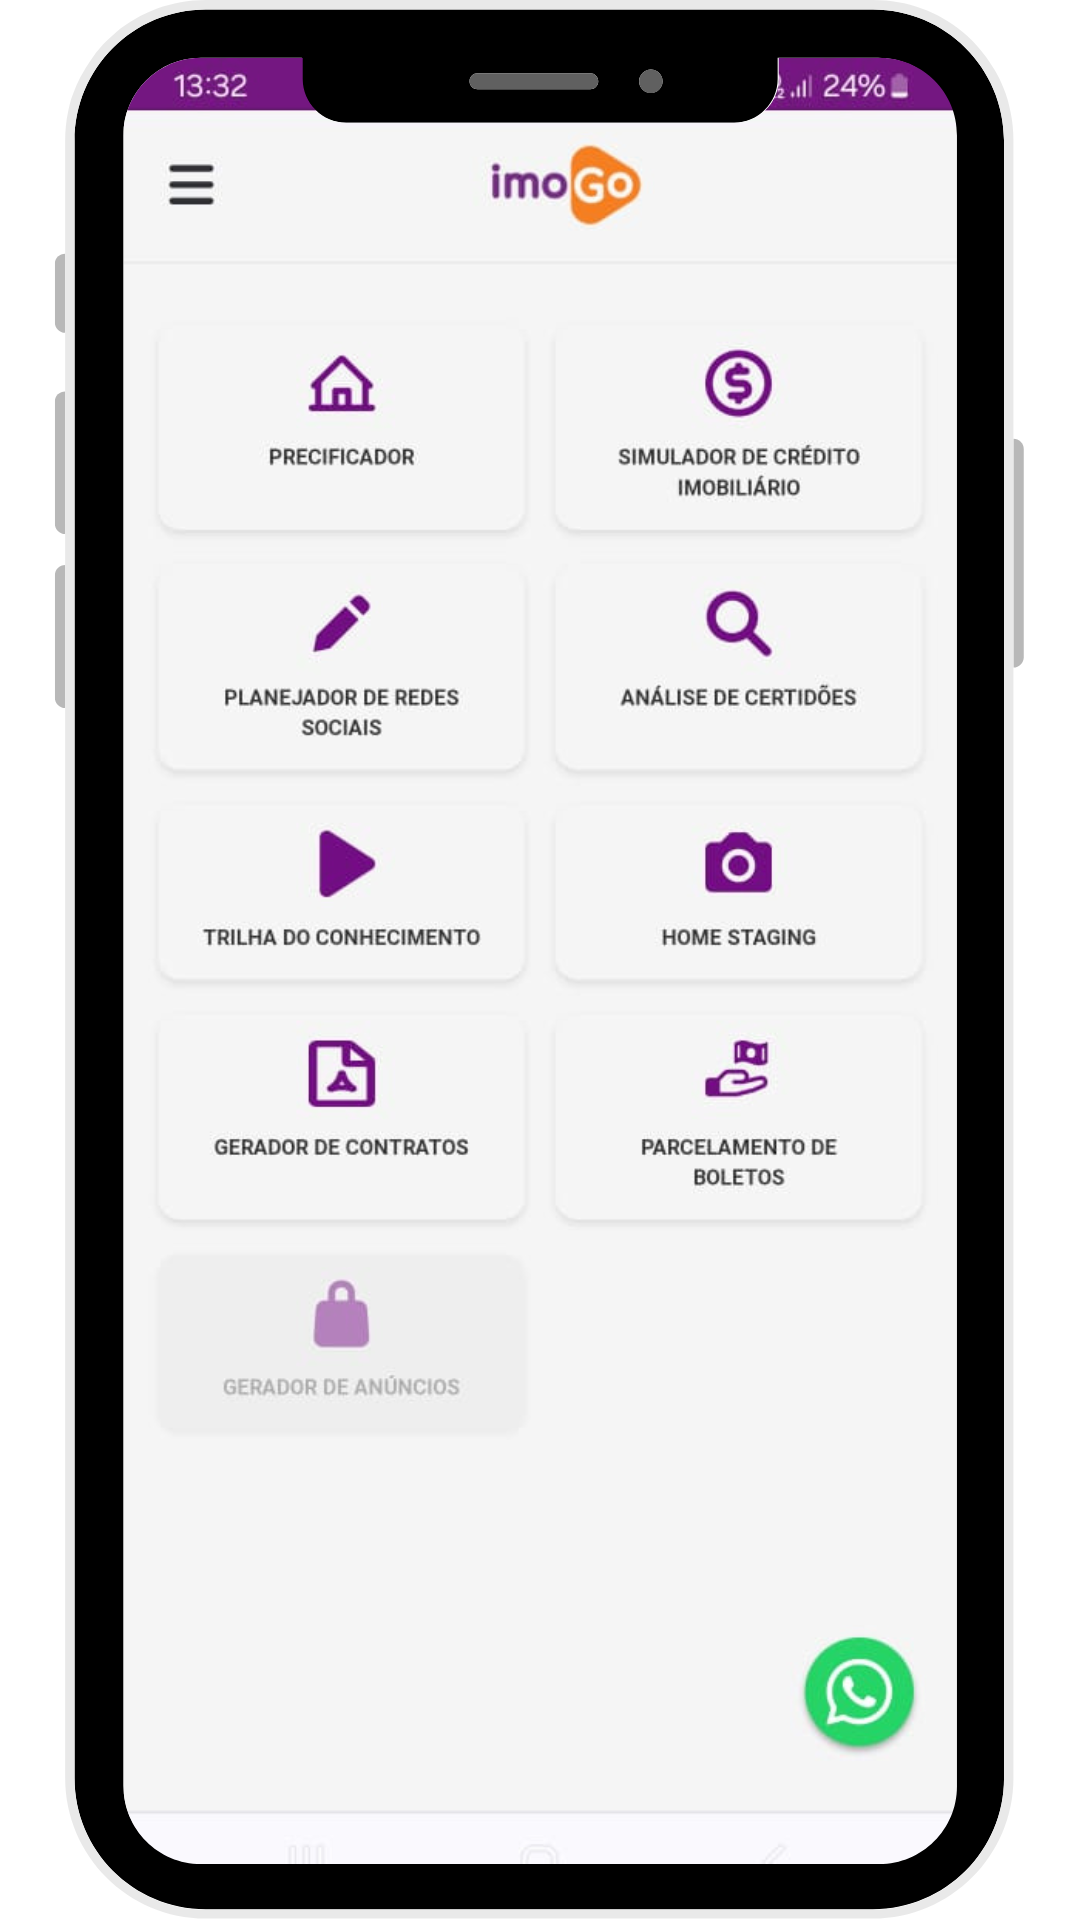
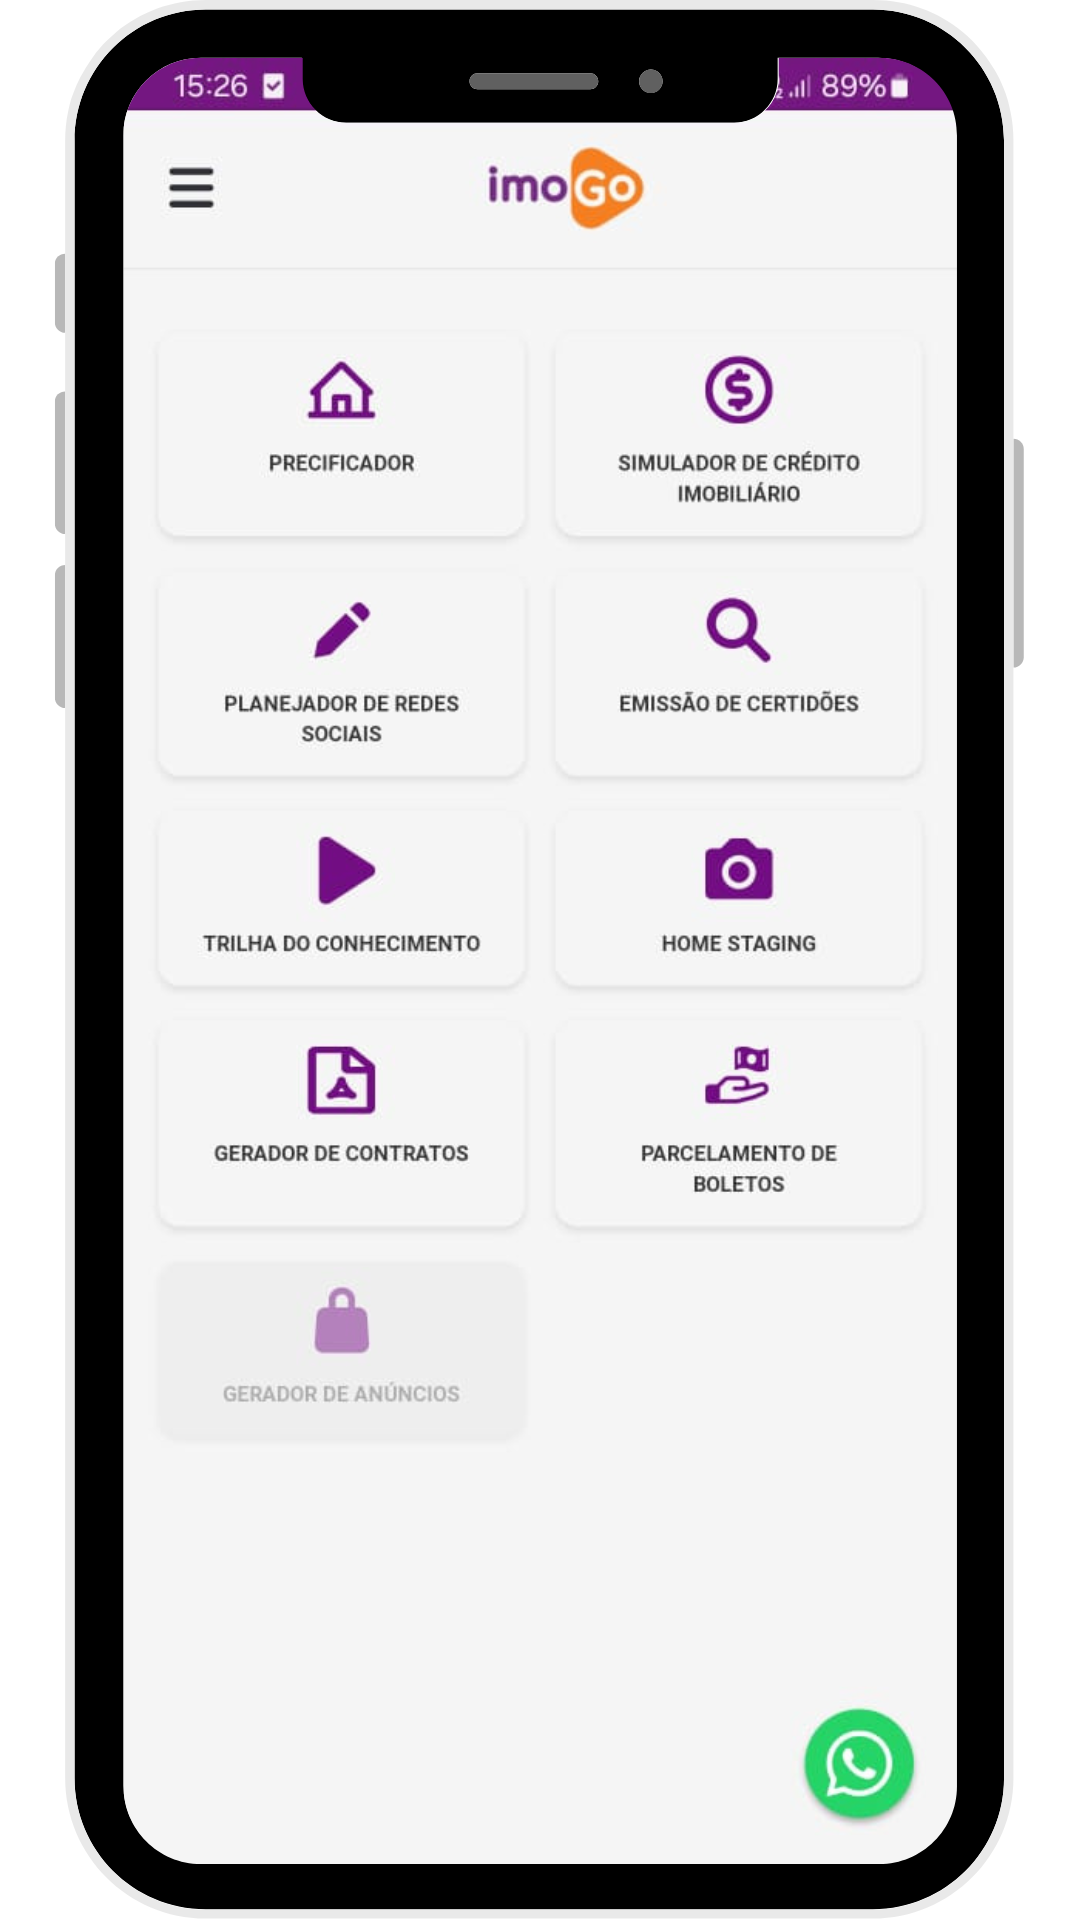
[06/06] Atualização telas

diff --git a/index.html b/index.html
@@ -1,15 +1,15 @@
 <!doctype html>
 <html class="no-js" lang="pt-br">
 
-<head>	
+<head>
 	<!-- Google tag (gtag.js) -->
 	<script async src="https://www.googletagmanager.com/gtag/js?id=G-C4LVRMEL35"></script>
 	<script>
-	  window.dataLayer = window.dataLayer || [];
-	  function gtag(){dataLayer.push(arguments);}
-	  gtag('js', new Date());
-	
-	  gtag('config', 'G-C4LVRMEL35');
+		window.dataLayer = window.dataLayer || [];
+		function gtag() { dataLayer.push(arguments); }
+		gtag('js', new Date());
+
+		gtag('config', 'G-C4LVRMEL35');
 	</script>
 	<meta charset="UTF-8">
 	<meta http-equiv="X-UA-Compatible" content="IE=edge">
@@ -43,13 +43,16 @@
 
 	<script src="https://unpkg.com/@phosphor-icons/web@2.1.1"></script>
 
-	 <!-- Google Tag Manager-->
-	 <script>(function(w,d,s,l,i){w[l]=w[l]||[];w[l].push({'gtm.start':
-	 new Date().getTime(),event:'gtm.js'});var f=d.getElementsByTagName(s)[0],
-	 j=d.createElement(s),dl=l!='dataLayer'?'&l='+l:'';j.async=true;j.src=
-	 'https://www.googletagmanager.com/gtm.js?id='+i+dl;f.parentNode.insertBefore(j,f);
-	 })(window,document,'script','dataLayer','GTM-MFM62R63');</script>
-	 <!-- End Google Tag Manager-->
+	<!-- Google Tag Manager-->
+	<script>(function (w, d, s, l, i) {
+			w[l] = w[l] || []; w[l].push({
+				'gtm.start':
+					new Date().getTime(), event: 'gtm.js'
+			}); var f = d.getElementsByTagName(s)[0],
+				j = d.createElement(s), dl = l != 'dataLayer' ? '&l=' + l : ''; j.async = true; j.src =
+					'https://www.googletagmanager.com/gtm.js?id=' + i + dl; f.parentNode.insertBefore(j, f);
+		})(window, document, 'script', 'dataLayer', 'GTM-MFM62R63');</script>
+	<!-- End Google Tag Manager-->
 	<style>
 		.list-group-item span {
 			display: inline-block;
@@ -196,9 +199,9 @@
 
 <body>
 	<!-- Google Tag Manager (noscript)-->
-	 <noscript><iframe src="https://www.googletagmanager.com/ns.html?id=GTM-MFM62R63"
-	 height="0" width="0" style="display:none;visibility:hidden"></iframe></noscript>
-	 <!-- End Google Tag Manager (noscript)-->
+	<noscript><iframe src="https://www.googletagmanager.com/ns.html?id=GTM-MFM62R63" height="0" width="0"
+			style="display:none;visibility:hidden"></iframe></noscript>
+	<!-- End Google Tag Manager (noscript)-->
 	<div class="main">
 		<!-- ***** Preloader Start ***** -->
 		<div class="preloader-main">
@@ -237,10 +240,10 @@
 
 					<div class="ms-auto"></div>
 					<div class="ms-auto"></div>
-					<div class="ms-auto"></div>					
+					<div class="ms-auto"></div>
 
 					<!-- Navbar Nav -->
-					<ul class="navbar-nav items mx-auto" >
+					<ul class="navbar-nav items mx-auto">
 						<li class="nav-item dropdown">
 							<a href="#" class="nav-link">Home </a>
 						</li>
@@ -278,7 +281,8 @@
 						<!-- Hero Content -->
 						<div class="hero-content text-center">
 							<h1 class="text-white typewriter" data-aos="fade-up" data-aos-delay="500"
-								data-aos-duration="1000">negocie imóveis com menos esforço. <br>a IA faz o trabalho pesado, você colhe os <b class="text-laranja"> resultados.</b></h1>
+								data-aos-duration="1000">negocie imóveis com menos esforço. <br>a IA faz o trabalho
+								pesado, você colhe os <b class="text-laranja"> resultados.</b></h1>
 							<!-- <p class="sub-heading text-white my-4" data-aos="fade-up" data-aos-delay="800" data-aos-duration="1000">então não perca tempo!</p> -->
 
 							<!-- Download Button -->
@@ -340,21 +344,22 @@
 									</div>
 								</a>
 							</li>
+							<!--  -->
 							<li class="item list-group-item border-0">
 								<a href="https://app.imogo.com.br/" style="color: black;" target="_blank">
 									<!-- Image Box -->
-									<div class="image-box layout-2 px-3 py-0 wow fadeInLeft" data-aos-duration="2s"
-										data-wow-delay="0.6s"
-										style="visibility: visible; animation-delay: 0.6s; animation-name: fadeInLeft;">
-										<img class="avatar-sm" src="assets/img/content/icon-2.png" alt="">
+									<div class="image-box layout-2 px-3 py-0 wow fadeInRight" data-aos-duration="2s"
+										data-wow-delay="0.9s"
+										style="visibility: visible; animation-delay: 0.9s; animation-name: fadeInRight;">
+										<img class="avatar-sm" src="assets/img/content/icon-6.png" alt="">
 										<!-- Content -->
 										<div class="content mt-3">
-											<h4 class="mt-0 mb-3">Simulador de crédito Imobiliário </h4>
-											<p class="mt-3">Faça simulações rápidas para facilitar a
-												comparação de taxas e prazos.</p>
+											<h4 class="mt-0 mb-3">Parcelamento de Boletos</h4>
+											<p class="mt-3">Parcele o pagamento de qualquer boleto usando o limite do seu cartão de crédito! É rápido, seguro e você ainda acumula pontos nos programas da sua operadora de cartão de crédito!.</p>
 										</div>
 									</div>
 								</a>
+
 							</li>
 							<li class="item list-group-item border-0">
 								<a href="https://app.imogo.com.br/" style="color: black;" target="_blank">
@@ -365,8 +370,9 @@
 										<img class="avatar-sm" src="assets/img/content/icon-3.png" alt="">
 										<!-- Content -->
 										<div class="content mt-3">
-											<h4 class="mt-0 mb-3" >Planejamento de rede social</h4>
-											<p class="mt-3">Planeje e automatize publicações para se destacar nas redes sociais.</p>
+											<h4 class="mt-0 mb-3">Planejamento de rede social</h4>
+											<p class="mt-3">Planeje e automatize publicações para se destacar nas redes
+												sociais.</p>
 										</div>
 									</div>
 								</a>
@@ -381,7 +387,8 @@
 										<!-- Content -->
 										<div class="content mt-3">
 											<h4 class="mt-0 mb-3">Tilha do conhecimento</h4>
-											<p class="mt-3">Fique por dentro das melhores práticas do mercado imobiliário! Aprimore suas habilidades e se diferencie.</p>
+											<p class="mt-3">Fique por dentro das melhores práticas do mercado
+												imobiliário! Aprimore suas habilidades e se diferencie.</p>
 										</div>
 									</div>
 								</a>
@@ -406,12 +413,12 @@
 										<img class="avatar-sm" src="assets/img/content/icon-4.png" alt="">
 										<!-- Content -->
 										<div class="content mt-3">
-											<h4 class="mt-0 mb-3">Análise de
+											<h4 class="mt-0 mb-3">Emissão de
 												certidões
 											</h4>
-											<p class="mt-3">Gere um parecer da análise integrada das certidões
-												essenciais
-												para a segurança das transações imobiliárias.</p>
+											<p class="mt-3">Solicite uma emissão de certidões da imoGo, você recebe, em
+												até um dia útil, todas as certidões relativas a situação jurídica do
+												proprietário e do imóvel.</p>
 										</div>
 									</div>
 								</a>
@@ -435,20 +442,20 @@
 							<li class="item list-group-item border-0">
 								<a href="https://app.imogo.com.br/" style="color: black;" target="_blank">
 									<!-- Image Box -->
-									<div class="image-box layout-2 px-3 py-0 wow fadeInRight" data-aos-duration="2s"
-										data-wow-delay="0.9s"
-										style="visibility: visible; animation-delay: 0.9s; animation-name: fadeInRight;">
-										<img class="avatar-sm" src="assets/img/content/icon-6.png" alt="">
+									<div class="image-box layout-2 px-3 py-0 wow fadeInLeft" data-aos-duration="2s"
+										data-wow-delay="0.6s"
+										style="visibility: visible; animation-delay: 0.6s; animation-name: fadeInLeft;">
+										<img class="avatar-sm" src="assets/img/content/icon-2.png" alt="">
 										<!-- Content -->
 										<div class="content mt-3">
-											<h4 class="mt-0 mb-3">Gerador de anúncios</h4>
-											<p class="mt-3">Desenvolva anúncios otimizados e profissionais para atrair
-												potenciais compradores.</p>
+											<h4 class="mt-0 mb-3">Simulador de crédito Imobiliário </h4>
+											<p class="mt-3">Faça simulações rápidas para facilitar a
+												comparação de taxas e prazos.</p>
 										</div>
 									</div>
 								</a>
-
 							</li>
+
 							<li class="item list-group-item border-0">
 								<a href="https://app.imogo.com.br/" style="color: black;" target="_blank">
 									<!-- Image Box -->
@@ -459,13 +466,15 @@
 										<!-- Content -->
 										<div class="content mt-3">
 											<h4 class="mt-0 mb-3">Home Staging</h4>
-											<p class="mt-3">Decore digitalmente os seus imóveis, criando imagens realistas e atraentes para vender mais.</p>
+											<p class="mt-3">Decore digitalmente os seus imóveis, criando imagens
+												realistas e atraentes para vender mais.</p>
 										</div>
 									</div>
 								</a>
 								<br>
 							</li>
-							
+
+
 						</ul>
 					</div>
 				</div>
@@ -763,10 +772,10 @@
 			</a>
 		</div>
 		<!--====== Scroll To Top Area End ======-->
-		
+
 		<a id="robbu-whatsapp-button" class="left" target="_blank"
 			href="https://api.whatsapp.com/send/?phone=5561981304920&text=Ol%C3%A1%20imoGo!&type=phone_number&app_absent=0">
-			
+
 			<img src="./assets/img/logo/whatsapp-icon.svg">
 		</a>
 	</div>
